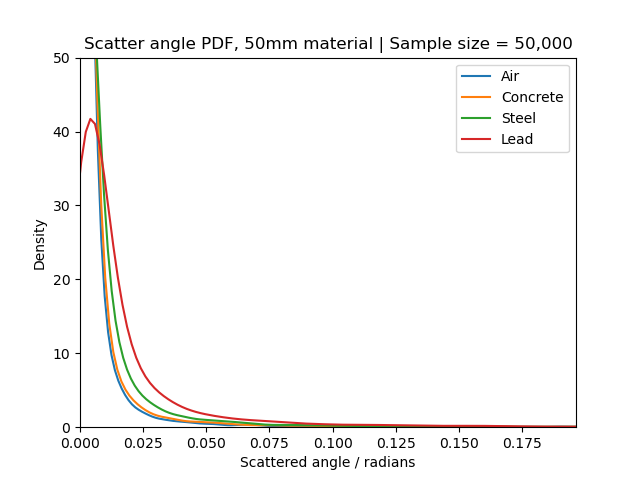
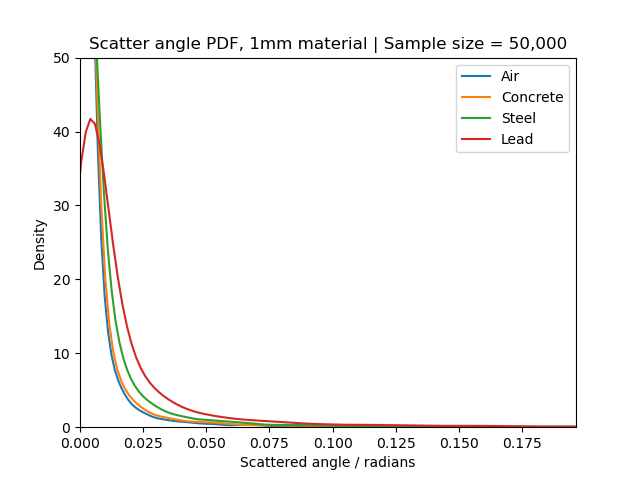
13.03.2023

Changed region(s): [[0.125, 0.0625, 0.9062, 0.125]]

diff --git a/Analysis/TrackReconstruction/ScatterAnglePlots.py b/Analysis/TrackReconstruction/ScatterAnglePlots.py
@@ -34,14 +34,15 @@ def data_clean(data):
     return (x,y,z,angle,xyz)
 
 
+data_frame1steel = ReadH5.pandas_read("/1mmSample/Steel/SteelInteraction.h5")
+
+data_frame1concrete = ReadH5.pandas_read("/1mmSample/Concrete/ConcreteInteraction.h5")
+
+data_frame1lead = ReadH5.pandas_read("/1mmSample/Lead/LeadInteraction.h5")
 
 
 
-
-data_frame1lead = ReadH5.pandas_read("/100mmSample/Concrete/ConcreteInteraction.h5")
-data_frame1steel = ReadH5.pandas_read("/50mmSample/Concrete/50000PureConcreteSlab1Interaction.h5")
-data_frame1concrete = ReadH5.pandas_read("/10mmSample/Concrete/ConcreteInteraction.h5")
-data_frame_air = ReadH5.pandas_read("/1mmSample/Concrete/ConcreteInteraction.h5")
+data_frame_air = ReadH5.pandas_read("/50mmSample/Air/50000AirInteraction.h5")
 
 data_air = data_frame_air
 data_steel = data_frame1steel
@@ -83,10 +84,10 @@ def scat_angle_dist(angle1,angle2,angle3,angle4):
 
     #ax = plt.hist(angle1, bins = 2000, label = 'Steel', alpha = 0.5)
     #ax = plt.hist(angle2, bins = 2000, label = 'Concrete', alpha = 0.5)  
-    #ax = plt.hist(angle3, bins = 2000, label = 'Concrete',alpha = 0.5 )
+    #ax = plt.hist(angle3, bins = 2000, label = 'Lead',alpha = 0.5 )
     #ax = plt.hist(angle4, bins = 2000, label = 'Air',alpha = 1)
     #ax = plt.hist(angle5, bins = 20, label = 'Vacuum',alpha = 1 )
-    plt.title("Scatter angle PDF, Concrete Slab | Sample size = 50,000")
+    plt.title("Scatter angle PDF, 1mm material | Sample size = 50,000")
     plt.xlabel("Scattered angle / radians")
     angle1 = pd.Series(angle1)
     angle2 = pd.Series(angle2)
@@ -95,10 +96,10 @@ def scat_angle_dist(angle1,angle2,angle3,angle4):
     
     
     
-    ax = angle4.plot(kind = 'kde', label = '1mm')
-    ax = angle2.plot(kind = 'kde', label = '10mm')
-    ax = angle1.plot(kind = 'kde', label = '50mm')
-    ax = angle3.plot(kind = 'kde', label = '100mm')
+    ax = angle4.plot(kind = 'kde', label = 'Air')
+    ax = angle2.plot(kind = 'kde', label = 'Concrete')
+    ax = angle1.plot(kind = 'kde', label = 'Steel')
+    ax = angle3.plot(kind = 'kde', label = 'Lead')
     
     ax.legend()
     plt.xlim(0,math.pi/16)
